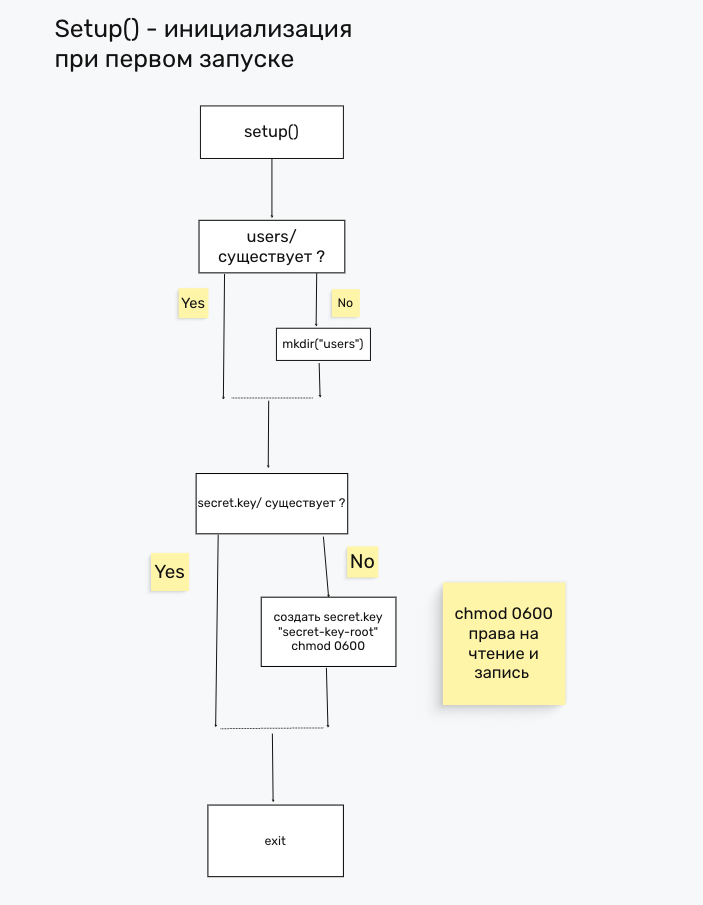
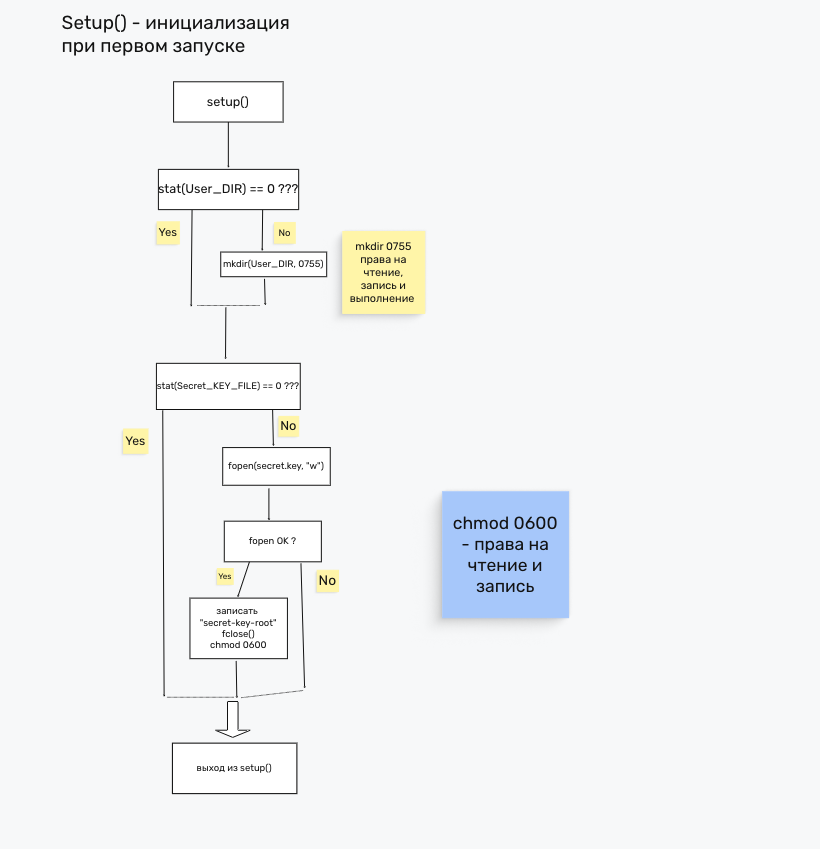
.

Changed region(s): [[0.0597, 0.0, 0.8065, 0.98], [0.2091, 0.9187, 0.239, 0.9494]]

diff --git a/1kurs/firstSem/prog/2/third_Homewok/third_Homework.c b/1kurs/firstSem/prog/2/third_Homewok/third_Homework.c
@@ -6,13 +6,18 @@
 #include <termios.h>
 #include <sys/stat.h>
 
-#define USERS_DIR       "users"
-#define SECRET_KEY_FILE "secret.key"
-#define LINE            256
-#define LOGIN           64
-#define PASS            128
+/* ---------- КОНСТАНТЫ ---------- */
+const char *USERS_DIR = "users";
+const char *SECRET_KEY_FILE = "secret.key";
 
-// ввод пароля без echo
+// Использование enum для целых чисел — правильный способ в C для размеров массивов
+enum {
+    LINE  = 256,
+    LOGIN = 64,
+    PASS  = 128
+};
+
+/* ---------- ВВОД ПАРОЛЯ БЕЗ ЭХА ---------- */
 void read_password(const char *prompt, char *buf, int size)
 {
     struct termios oldt, newt;
@@ -32,7 +37,7 @@ void read_password(const char *prompt, char *buf, int size)
     printf("\n");
 }
 
-// хеш пароля 
+/* ---------- ХЕШ ПАРОЛЯ ---------- */
 void hash_password(const char *password, char out[33])
 {
     unsigned long h = 5381;
@@ -42,7 +47,7 @@ void hash_password(const char *password, char out[33])
     sprintf(out, "%016lx", h);
 }
 
-/* ---------- проверка логина ---------- */
+/* ---------- ПРОВЕРКА ЛОГИНА ---------- */
 int valid_login(const char *login)
 {
     int i;
@@ -53,7 +58,7 @@ int valid_login(const char *login)
     return 1;
 }
 
-// путь к файлу user 
+/* ---------- ПУТЬ К ФАЙЛУ ПОЛЬЗОВАТЕЛЯ ---------- */
 void user_path(const char *login, char *out, int size)
 {
     snprintf(out, size, "%s/%s.txt", USERS_DIR, login);
@@ -67,7 +72,7 @@ int user_exists(const char *login)
     return stat(path, &st) == 0;
 }
 
-// new user
+/* ---------- СОЗДАНИЕ ПОЛЬЗОВАТЕЛЯ ---------- */
 int create_user(const char *login, const char *password)
 {
     char path[512], hash[33];
@@ -93,7 +98,7 @@ int create_user(const char *login, const char *password)
     return 1;
 }
 
-/* ---------- удаление пользователя ---------- */
+/* ---------- УДАЛЕНИЕ ПОЛЬЗОВАТЕЛЯ ---------- */
 int delete_user(const char *login)
 {
     char path[512];
@@ -107,7 +112,7 @@ int delete_user(const char *login)
     return 1;
 }
 
-// смена пароля
+/* ---------- СМЕНА ПАРОЛЯ ---------- */
 int change_password(const char *login)
 {
     char path[512], pwd[PASS], pwd2[PASS], hash[33];
@@ -138,15 +143,18 @@ int change_password(const char *login)
     return 1;
 }
 
-// список пользователей 
+/* ---------- СПИСОК ПОЛЬЗОВАТЕЛЕЙ (ИСПРАВЛЕНО) ---------- */
 void list_users(void)
 {
+    char cmd[512];
     printf("Пользователи:\n");
     fflush(stdout);
-    system("ls " USERS_DIR " 2>/dev/null | sed 's/\\.txt$//' | sed 's/^/  - /'");
+    // Формируем безопасную команду с подстановкой переменной USERS_DIR
+    snprintf(cmd, sizeof(cmd), "ls \"%s\" 2>/dev/null | sed 's/\\.txt$//' | sed 's/^/  - /'", USERS_DIR);
+    system(cmd);
 }
 
-// проверка пароля 
+/* ---------- ПРОВЕРКА ПАРОЛЯ ---------- */
 int check_password(const char *login, const char *password)
 {
     char path[512], line[LINE], stored_login[LOGIN], stored_hash[33];
@@ -171,7 +179,7 @@ int check_password(const char *login, const char *password)
     return strcmp(stored_login, login) == 0 && strcmp(stored_hash, hash) == 0;
 }
 
-// rooo-console
+/* ---------- АДМИН-КОНСОЛЬ ---------- */
 void admin_shell(void)
 {
     char line[LINE], pwd[PASS], pwd2[PASS];
@@ -221,7 +229,7 @@ void admin_shell(void)
     printf("=== ВЫХОД ===\n\n");
 }
 
-// создание папок/ключа при первом запуске 
+/* ---------- НАСТРОЙКА (КЛЮЧ И ПАПКА) ---------- */
 void setup(void)
 {
     struct stat st;
@@ -232,14 +240,14 @@ void setup(void)
     if (stat(SECRET_KEY_FILE, &st) != 0) {
         FILE *f = fopen(SECRET_KEY_FILE, "w");
         if (f) {
-            fprintf(f, "secret-key-root");
+            fprintf(f, "secret-key-root"); // Новый ключ
             fclose(f);
             chmod(SECRET_KEY_FILE, 0600);
         }
     }
 }
 
-// чтение секретного ключа
+/* ---------- ЧТЕНИЕ СЕКРЕТНОГО КЛЮЧА ---------- */
 void get_secret_key(char *buf, int size)
 {
     FILE *f = fopen(SECRET_KEY_FILE, "r");
@@ -250,7 +258,7 @@ void get_secret_key(char *buf, int size)
     fclose(f);
 }
 
-// авторизация
+/* ---------- АВТОРИЗАЦИЯ ---------- */
 int login_flow(char *out_login, int size)
 {
     char login[LOGIN], password[PASS], secret[128];
@@ -284,7 +292,7 @@ int login_flow(char *out_login, int size)
     return 1;
 }
 
-// консоль пользователя
+/* ---------- КОНСОЛЬ ПОЛЬЗОВАТЕЛЯ ---------- */
 void user_session(const char *login)
 {
     char line[LINE];
@@ -303,7 +311,7 @@ void user_session(const char *login)
     }
 }
 
-// main 
+/* ---------- MAIN ---------- */
 int main(void)
 {
     char login[LOGIN];
